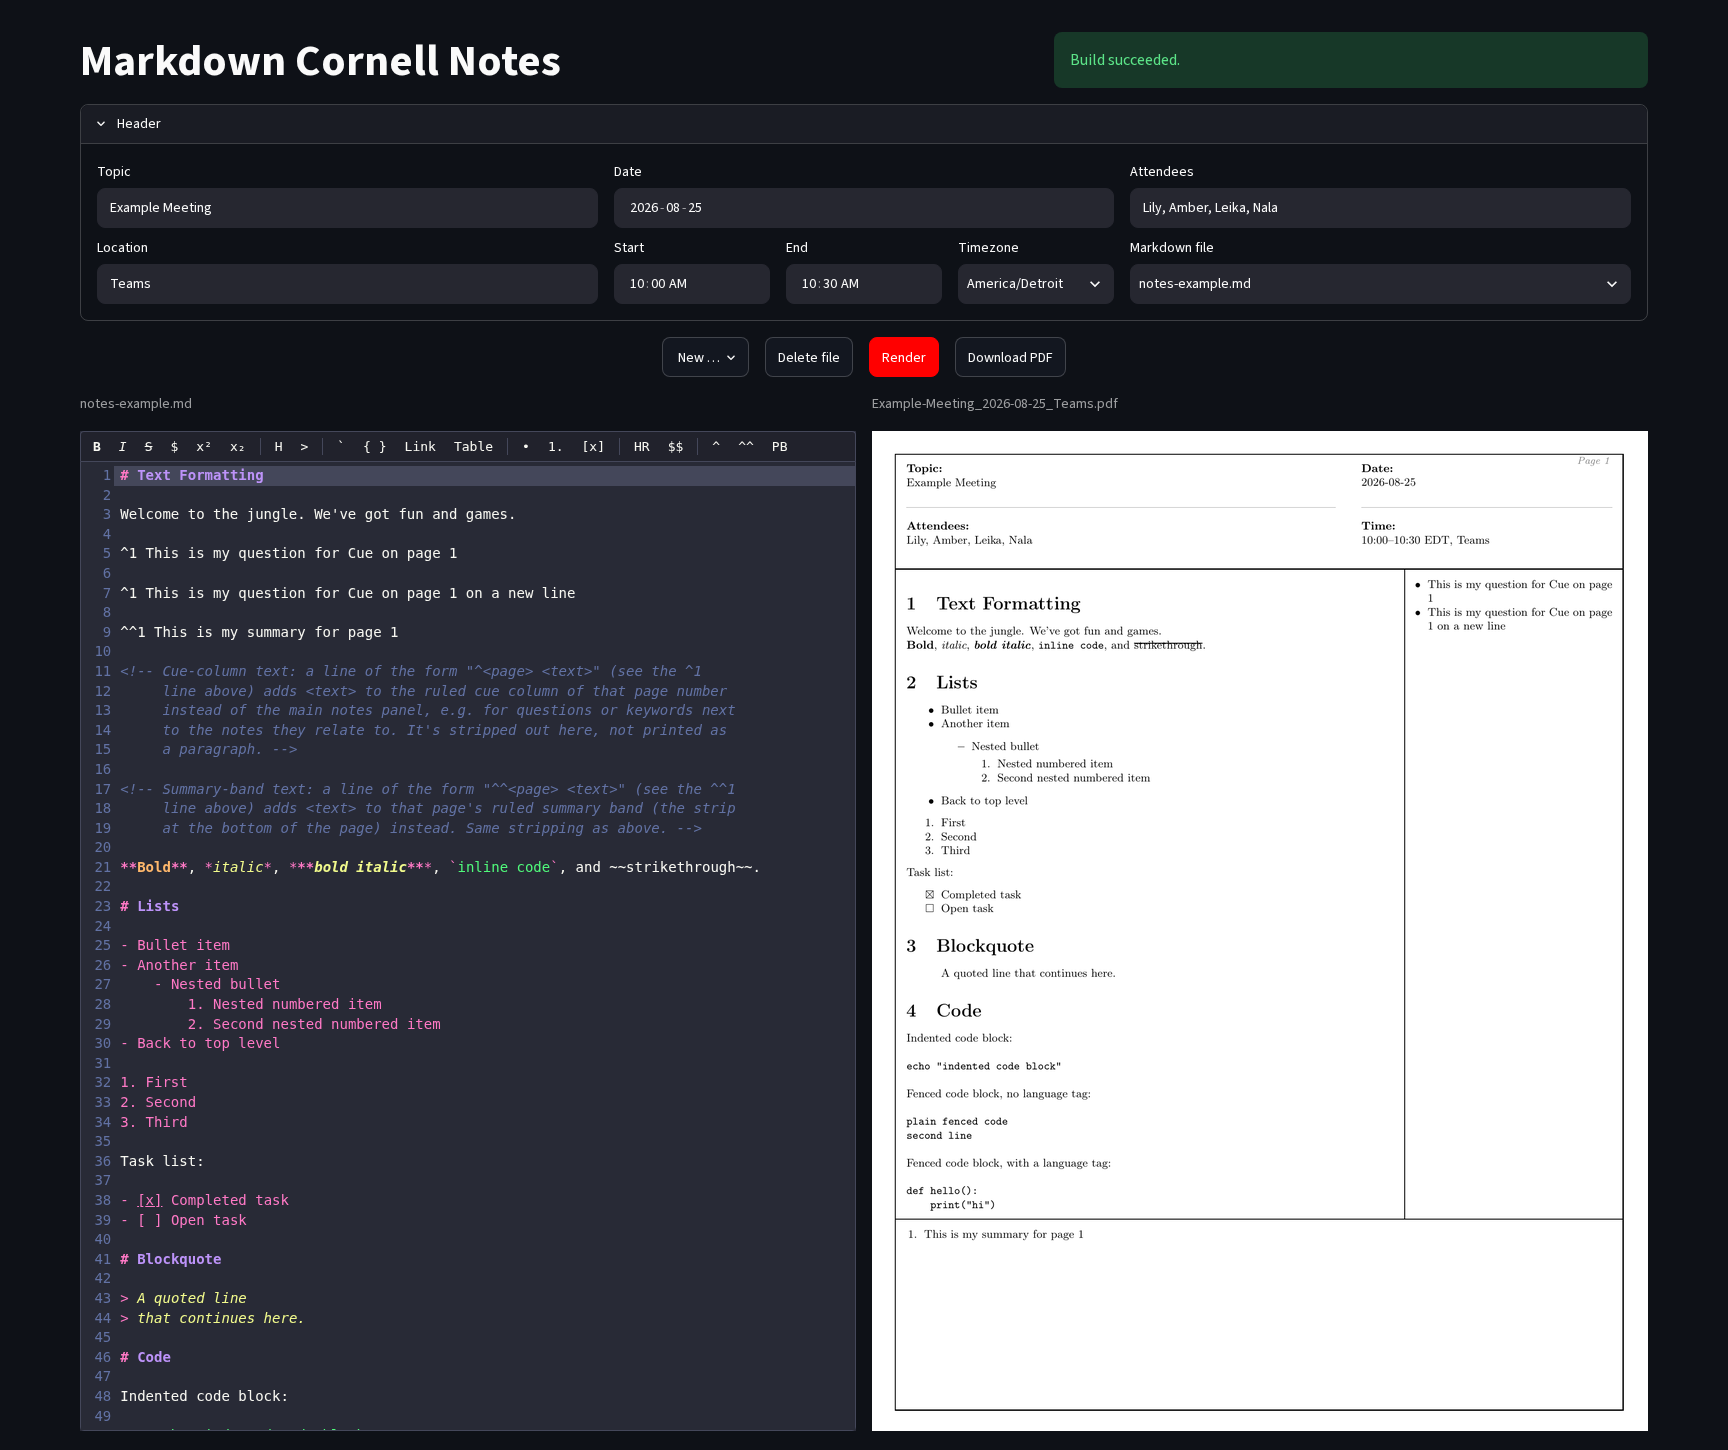
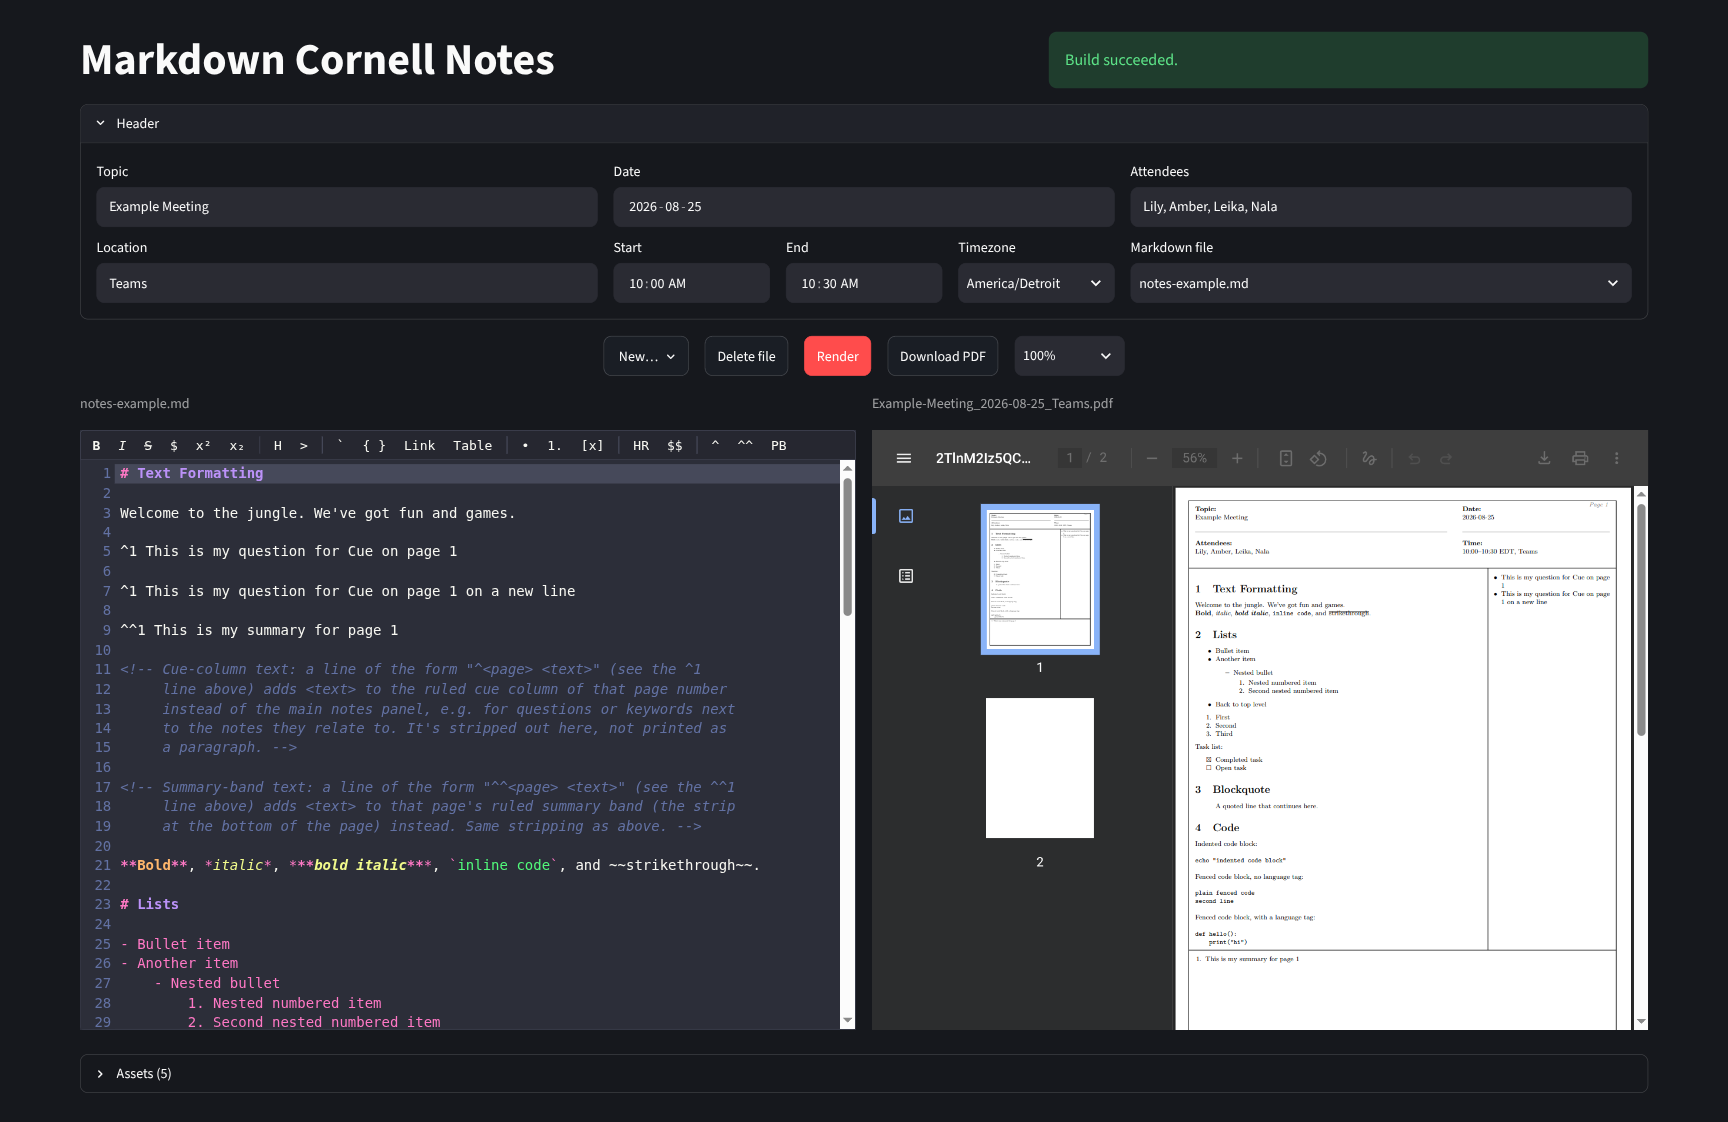
updated README.md

diff --git a/docs/streamlit-app.md b/docs/streamlit-app.md
@@ -50,14 +50,16 @@ a fast double-click can't submit twice. Render saves both the selected
 file's header and its markdown content to disk and runs `make build` for
 you; the title's status pill (see above) reports success or failure.
 Download PDF (disabled until a PDF exists) downloads the current one under
-its actual output filename.
+its actual output filename. A dropdown at the end of the row (30%–100%,
+100% by default) scales the editor/PDF pane height below — pick a smaller
+value to fit both panes on a shorter screen without scrolling.
 
 Below that, the markdown editor (left) and the resulting PDF (right) sit
-side by side, matched in height so their tops and bottoms align. Header
-fields and markdown content both autosave to disk continuously as you
-edit — a debounce/blur from the markdown editor, immediately for header
-fields — rather than only on Render, so switching files or closing the tab
-doesn't lose unsaved work.
+side by side, matched in height (per the pane-height dropdown above) so
+their tops and bottoms align. Header fields and markdown content both
+autosave to disk continuously as you edit — a debounce/blur from the
+markdown editor, immediately for header fields — rather than only on
+Render, so switching files or closing the tab doesn't lose unsaved work.
 
 At the bottom is an **Assets** expander (labeled with the current file
 count) that manages the `assets/` folder used for images and linked
